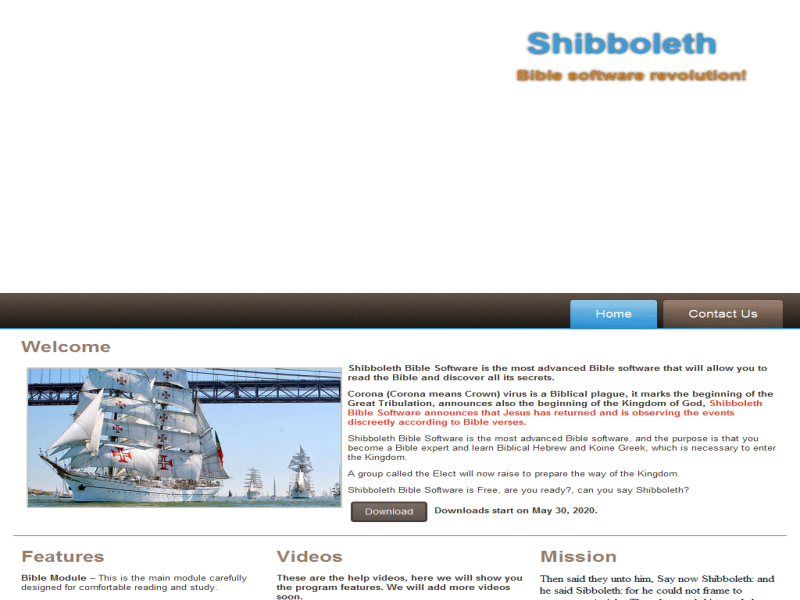
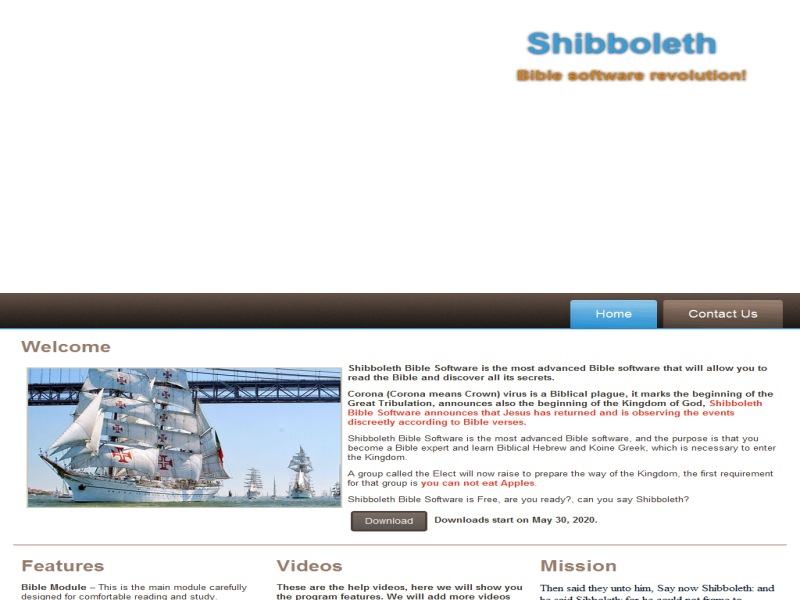
5

Changed region(s): [[0.0, 0.78, 0.9688, 1.0]]

diff --git a/index.html b/index.html
@@ -63,7 +63,7 @@
         </p><p>
         </p><p>
         </p><p><span style="font-weight: bold;">Shibboleth Bible Software is the most advanced Bible software that will allow you to read the Bible and discover all its secrets.</span></p><p><span style="font-weight: bold;">Corona (Corona means Crown) virus is a Biblical plague, it&nbsp;marks the beginning of the Great Tribulation, announces also the beginning of the Kingdom of God, <span style="color: rgb(226, 52, 29);">Shibboleth Bible Software announces that Jesus has returned and is observing the events discreetly according to Bible verses.</span></span></p>
-        <p>Shibboleth Bible Software is the most advanced Bible software, and the purpose is that you become a Bible expert and learn Biblical Hebrew and Koine Greek, which is necessary to enter the Kingdom.</p><p>A group called the Elect will now raise to prepare the way of the Kingdom.</p><p>Shibboleth Bible Software is Free, are you ready?, can you say Shibboleth?</p>
+        <p>Shibboleth Bible Software is the most advanced Bible software, and the purpose is that you become a Bible expert and learn Biblical Hebrew and Koine Greek, which is necessary to enter the Kingdom.</p><p>A group called the Elect will now raise to prepare the way of the Kingdom, the first requirement for that group is <span style="font-weight: bold; color: #E2341D;">you can not eat Apples</span><span style="color: #E2341D;">.</span></p><p>Shibboleth Bible Software is Free, are you ready?, can you say Shibboleth?</p>
         <p>&nbsp;<a href="#" class="art-button">Download</a>&nbsp;<span style="font-weight: bold;">Downloads start on May 30, 2020.</span><br></p>
     </div>
     </div>
@@ -127,14 +127,14 @@
          
          <!-- Default Statcounter code for shibboeth http://shibboleth-bible.com -->
          <script type="text/javascript">
-                                                                var sc_project=12241581; 
-                                                                var sc_invisible=1; 
-                                                                var sc_security="881c522a"; 
-                                                                var sc_https=1; 
-                                                                </script>
+                                                                        var sc_project=12241581; 
+                                                                        var sc_invisible=1; 
+                                                                        var sc_security="881c522a"; 
+                                                                        var sc_https=1; 
+                                                                        </script>
          <script type="text/javascript" async=""></script>
-         <noscript>&amp;amp;amp;amp;amp;amp;amp;amp;amp;amp;amp;amp;amp;amp;amp;amp;amp;amp;amp;amp;amp;lt;div class="statcounter"&amp;amp;amp;amp;amp;amp;amp;amp;amp;amp;amp;amp;amp;amp;amp;amp;amp;amp;amp;amp;amp;gt;&amp;amp;amp;amp;amp;amp;amp;amp;amp;amp;amp;amp;amp;amp;amp;amp;amp;amp;amp;amp;amp;lt;a title="web statistics" target="_blank"&amp;amp;amp;amp;amp;amp;amp;amp;amp;amp;amp;amp;amp;amp;amp;amp;amp;amp;amp;amp;amp;gt;&amp;amp;amp;amp;amp;amp;amp;amp;amp;amp;amp;amp;amp;amp;amp;amp;amp;amp;amp;amp;amp;lt;img class="statcounter" alt="web
-         statistics"&amp;amp;amp;amp;amp;amp;amp;amp;amp;amp;amp;amp;amp;amp;amp;amp;amp;amp;amp;amp;amp;gt;&amp;amp;amp;amp;amp;amp;amp;amp;amp;amp;amp;amp;amp;amp;amp;amp;amp;amp;amp;amp;amp;lt;/a&amp;amp;amp;amp;amp;amp;amp;amp;amp;amp;amp;amp;amp;amp;amp;amp;amp;amp;amp;amp;amp;gt;&amp;amp;amp;amp;amp;amp;amp;amp;amp;amp;amp;amp;amp;amp;amp;amp;amp;amp;amp;amp;amp;lt;/div&amp;amp;amp;amp;amp;amp;amp;amp;amp;amp;amp;amp;amp;amp;amp;amp;amp;amp;amp;amp;amp;gt;</noscript>
+         <noscript>&amp;amp;amp;amp;amp;amp;amp;amp;amp;amp;amp;amp;amp;amp;amp;amp;amp;amp;amp;amp;amp;amp;amp;amp;lt;div class="statcounter"&amp;amp;amp;amp;amp;amp;amp;amp;amp;amp;amp;amp;amp;amp;amp;amp;amp;amp;amp;amp;amp;amp;amp;amp;gt;&amp;amp;amp;amp;amp;amp;amp;amp;amp;amp;amp;amp;amp;amp;amp;amp;amp;amp;amp;amp;amp;amp;amp;amp;lt;a title="web statistics" target="_blank"&amp;amp;amp;amp;amp;amp;amp;amp;amp;amp;amp;amp;amp;amp;amp;amp;amp;amp;amp;amp;amp;amp;amp;amp;gt;&amp;amp;amp;amp;amp;amp;amp;amp;amp;amp;amp;amp;amp;amp;amp;amp;amp;amp;amp;amp;amp;amp;amp;amp;lt;img class="statcounter" alt="web
+         statistics"&amp;amp;amp;amp;amp;amp;amp;amp;amp;amp;amp;amp;amp;amp;amp;amp;amp;amp;amp;amp;amp;amp;amp;amp;gt;&amp;amp;amp;amp;amp;amp;amp;amp;amp;amp;amp;amp;amp;amp;amp;amp;amp;amp;amp;amp;amp;amp;amp;amp;lt;/a&amp;amp;amp;amp;amp;amp;amp;amp;amp;amp;amp;amp;amp;amp;amp;amp;amp;amp;amp;amp;amp;amp;amp;amp;gt;&amp;amp;amp;amp;amp;amp;amp;amp;amp;amp;amp;amp;amp;amp;amp;amp;amp;amp;amp;amp;amp;amp;amp;amp;lt;/div&amp;amp;amp;amp;amp;amp;amp;amp;amp;amp;amp;amp;amp;amp;amp;amp;amp;amp;amp;amp;amp;amp;amp;amp;gt;</noscript>
          <!-- End of Statcounter Code -->
     </div>
     </div>

diff --git a/new-page.html b/new-page.html
@@ -63,7 +63,7 @@
         </p><p>
         </p><p>
         </p><p><span style="font-weight: bold;">Shibboleth Bible Software is the most advanced Bible software that will allow you to read the Bible and discover all its secrets.</span></p><p><span style="font-weight: bold;">Corona (Corona means Crown) virus is a Biblical plague, it&nbsp;marks the beginning of the Great Tribulation, announces also the beginning of the Kingdom of God, <span style="color: rgb(226, 52, 29);">Shibboleth Bible Software announces that Jesus has returned and is observing the events discreetly according to Bible verses.</span></span></p>
-        <p>Shibboleth Bible Software is the most advanced Bible software, and the purpose is that you become a Bible expert and learn Biblical Hebrew and Koine Greek, which is necessary to enter the Kingdom.</p><p>A group called the Elect will now raise to prepare the way of the Kingdom.</p><p>Shibboleth Bible Software is Free, are you ready?, can you say Shibboleth?</p>
+        <p>Shibboleth Bible Software is the most advanced Bible software, and the purpose is that you become a Bible expert and learn Biblical Hebrew and Koine Greek, which is necessary to enter the Kingdom.</p><p>A group called the Elect will now raise to prepare the way of the Kingdom, the first requirement for that group is <span style="font-weight: bold; color: #E2341D;">you can not eat Apples</span><span style="color: #E2341D;">.</span></p><p>Shibboleth Bible Software is Free, are you ready?, can you say Shibboleth?</p>
         <p>&nbsp;<a href="#" class="art-button">Download</a>&nbsp;<span style="font-weight: bold;">Downloads start on May 30, 2020.</span><br></p>
     </div>
     </div>
@@ -127,14 +127,14 @@
          
          <!-- Default Statcounter code for shibboeth http://shibboleth-bible.com -->
          <script type="text/javascript">
-                                                                var sc_project=12241581; 
-                                                                var sc_invisible=1; 
-                                                                var sc_security="881c522a"; 
-                                                                var sc_https=1; 
-                                                                </script>
+                                                                        var sc_project=12241581; 
+                                                                        var sc_invisible=1; 
+                                                                        var sc_security="881c522a"; 
+                                                                        var sc_https=1; 
+                                                                        </script>
          <script type="text/javascript" async=""></script>
-         <noscript>&amp;amp;amp;amp;amp;amp;amp;amp;amp;amp;amp;amp;amp;amp;amp;amp;amp;amp;amp;amp;amp;lt;div class="statcounter"&amp;amp;amp;amp;amp;amp;amp;amp;amp;amp;amp;amp;amp;amp;amp;amp;amp;amp;amp;amp;amp;gt;&amp;amp;amp;amp;amp;amp;amp;amp;amp;amp;amp;amp;amp;amp;amp;amp;amp;amp;amp;amp;amp;lt;a title="web statistics" target="_blank"&amp;amp;amp;amp;amp;amp;amp;amp;amp;amp;amp;amp;amp;amp;amp;amp;amp;amp;amp;amp;amp;gt;&amp;amp;amp;amp;amp;amp;amp;amp;amp;amp;amp;amp;amp;amp;amp;amp;amp;amp;amp;amp;amp;lt;img class="statcounter" alt="web
-         statistics"&amp;amp;amp;amp;amp;amp;amp;amp;amp;amp;amp;amp;amp;amp;amp;amp;amp;amp;amp;amp;amp;gt;&amp;amp;amp;amp;amp;amp;amp;amp;amp;amp;amp;amp;amp;amp;amp;amp;amp;amp;amp;amp;amp;lt;/a&amp;amp;amp;amp;amp;amp;amp;amp;amp;amp;amp;amp;amp;amp;amp;amp;amp;amp;amp;amp;amp;gt;&amp;amp;amp;amp;amp;amp;amp;amp;amp;amp;amp;amp;amp;amp;amp;amp;amp;amp;amp;amp;amp;lt;/div&amp;amp;amp;amp;amp;amp;amp;amp;amp;amp;amp;amp;amp;amp;amp;amp;amp;amp;amp;amp;amp;gt;</noscript>
+         <noscript>&amp;amp;amp;amp;amp;amp;amp;amp;amp;amp;amp;amp;amp;amp;amp;amp;amp;amp;amp;amp;amp;amp;amp;amp;lt;div class="statcounter"&amp;amp;amp;amp;amp;amp;amp;amp;amp;amp;amp;amp;amp;amp;amp;amp;amp;amp;amp;amp;amp;amp;amp;amp;gt;&amp;amp;amp;amp;amp;amp;amp;amp;amp;amp;amp;amp;amp;amp;amp;amp;amp;amp;amp;amp;amp;amp;amp;amp;lt;a title="web statistics" target="_blank"&amp;amp;amp;amp;amp;amp;amp;amp;amp;amp;amp;amp;amp;amp;amp;amp;amp;amp;amp;amp;amp;amp;amp;amp;gt;&amp;amp;amp;amp;amp;amp;amp;amp;amp;amp;amp;amp;amp;amp;amp;amp;amp;amp;amp;amp;amp;amp;amp;amp;lt;img class="statcounter" alt="web
+         statistics"&amp;amp;amp;amp;amp;amp;amp;amp;amp;amp;amp;amp;amp;amp;amp;amp;amp;amp;amp;amp;amp;amp;amp;amp;gt;&amp;amp;amp;amp;amp;amp;amp;amp;amp;amp;amp;amp;amp;amp;amp;amp;amp;amp;amp;amp;amp;amp;amp;amp;lt;/a&amp;amp;amp;amp;amp;amp;amp;amp;amp;amp;amp;amp;amp;amp;amp;amp;amp;amp;amp;amp;amp;amp;amp;amp;gt;&amp;amp;amp;amp;amp;amp;amp;amp;amp;amp;amp;amp;amp;amp;amp;amp;amp;amp;amp;amp;amp;amp;amp;amp;lt;/div&amp;amp;amp;amp;amp;amp;amp;amp;amp;amp;amp;amp;amp;amp;amp;amp;amp;amp;amp;amp;amp;amp;amp;amp;gt;</noscript>
          <!-- End of Statcounter Code -->
     </div>
     </div>

diff --git a/new-page-2.html b/new-page-2.html
@@ -72,14 +72,14 @@
          
          <!-- Default Statcounter code for shibboeth http://shibboleth-bible.com -->
          <script type="text/javascript">
-                                                                var sc_project=12241581; 
-                                                                var sc_invisible=1; 
-                                                                var sc_security="881c522a"; 
-                                                                var sc_https=1; 
-                                                                </script>
+                                                                        var sc_project=12241581; 
+                                                                        var sc_invisible=1; 
+                                                                        var sc_security="881c522a"; 
+                                                                        var sc_https=1; 
+                                                                        </script>
          <script type="text/javascript" async=""></script>
-         <noscript>&amp;amp;amp;amp;amp;amp;amp;amp;amp;amp;amp;amp;amp;amp;amp;amp;amp;amp;amp;amp;amp;lt;div class="statcounter"&amp;amp;amp;amp;amp;amp;amp;amp;amp;amp;amp;amp;amp;amp;amp;amp;amp;amp;amp;amp;amp;gt;&amp;amp;amp;amp;amp;amp;amp;amp;amp;amp;amp;amp;amp;amp;amp;amp;amp;amp;amp;amp;amp;lt;a title="web statistics" target="_blank"&amp;amp;amp;amp;amp;amp;amp;amp;amp;amp;amp;amp;amp;amp;amp;amp;amp;amp;amp;amp;amp;gt;&amp;amp;amp;amp;amp;amp;amp;amp;amp;amp;amp;amp;amp;amp;amp;amp;amp;amp;amp;amp;amp;lt;img class="statcounter" alt="web
-         statistics"&amp;amp;amp;amp;amp;amp;amp;amp;amp;amp;amp;amp;amp;amp;amp;amp;amp;amp;amp;amp;amp;gt;&amp;amp;amp;amp;amp;amp;amp;amp;amp;amp;amp;amp;amp;amp;amp;amp;amp;amp;amp;amp;amp;lt;/a&amp;amp;amp;amp;amp;amp;amp;amp;amp;amp;amp;amp;amp;amp;amp;amp;amp;amp;amp;amp;amp;gt;&amp;amp;amp;amp;amp;amp;amp;amp;amp;amp;amp;amp;amp;amp;amp;amp;amp;amp;amp;amp;amp;lt;/div&amp;amp;amp;amp;amp;amp;amp;amp;amp;amp;amp;amp;amp;amp;amp;amp;amp;amp;amp;amp;amp;gt;</noscript>
+         <noscript>&amp;amp;amp;amp;amp;amp;amp;amp;amp;amp;amp;amp;amp;amp;amp;amp;amp;amp;amp;amp;amp;amp;amp;amp;lt;div class="statcounter"&amp;amp;amp;amp;amp;amp;amp;amp;amp;amp;amp;amp;amp;amp;amp;amp;amp;amp;amp;amp;amp;amp;amp;amp;gt;&amp;amp;amp;amp;amp;amp;amp;amp;amp;amp;amp;amp;amp;amp;amp;amp;amp;amp;amp;amp;amp;amp;amp;amp;lt;a title="web statistics" target="_blank"&amp;amp;amp;amp;amp;amp;amp;amp;amp;amp;amp;amp;amp;amp;amp;amp;amp;amp;amp;amp;amp;amp;amp;amp;gt;&amp;amp;amp;amp;amp;amp;amp;amp;amp;amp;amp;amp;amp;amp;amp;amp;amp;amp;amp;amp;amp;amp;amp;amp;lt;img class="statcounter" alt="web
+         statistics"&amp;amp;amp;amp;amp;amp;amp;amp;amp;amp;amp;amp;amp;amp;amp;amp;amp;amp;amp;amp;amp;amp;amp;amp;gt;&amp;amp;amp;amp;amp;amp;amp;amp;amp;amp;amp;amp;amp;amp;amp;amp;amp;amp;amp;amp;amp;amp;amp;amp;lt;/a&amp;amp;amp;amp;amp;amp;amp;amp;amp;amp;amp;amp;amp;amp;amp;amp;amp;amp;amp;amp;amp;amp;amp;amp;gt;&amp;amp;amp;amp;amp;amp;amp;amp;amp;amp;amp;amp;amp;amp;amp;amp;amp;amp;amp;amp;amp;amp;amp;amp;lt;/div&amp;amp;amp;amp;amp;amp;amp;amp;amp;amp;amp;amp;amp;amp;amp;amp;amp;amp;amp;amp;amp;amp;amp;amp;gt;</noscript>
          <!-- End of Statcounter Code -->
     </div>
     </div>

diff --git a/new-page/new-page-2.html b/new-page/new-page-2.html
@@ -68,14 +68,14 @@
          
          <!-- Default Statcounter code for shibboeth http://shibboleth-bible.com -->
          <script type="text/javascript">
-                                                                var sc_project=12241581; 
-                                                                var sc_invisible=1; 
-                                                                var sc_security="881c522a"; 
-                                                                var sc_https=1; 
-                                                                </script>
+                                                                        var sc_project=12241581; 
+                                                                        var sc_invisible=1; 
+                                                                        var sc_security="881c522a"; 
+                                                                        var sc_https=1; 
+                                                                        </script>
          <script type="text/javascript" async=""></script>
-         <noscript>&amp;amp;amp;amp;amp;amp;amp;amp;amp;amp;amp;amp;amp;amp;amp;amp;amp;amp;amp;amp;amp;lt;div class="statcounter"&amp;amp;amp;amp;amp;amp;amp;amp;amp;amp;amp;amp;amp;amp;amp;amp;amp;amp;amp;amp;amp;gt;&amp;amp;amp;amp;amp;amp;amp;amp;amp;amp;amp;amp;amp;amp;amp;amp;amp;amp;amp;amp;amp;lt;a title="web statistics" target="_blank"&amp;amp;amp;amp;amp;amp;amp;amp;amp;amp;amp;amp;amp;amp;amp;amp;amp;amp;amp;amp;amp;gt;&amp;amp;amp;amp;amp;amp;amp;amp;amp;amp;amp;amp;amp;amp;amp;amp;amp;amp;amp;amp;amp;lt;img class="statcounter" alt="web
-         statistics"&amp;amp;amp;amp;amp;amp;amp;amp;amp;amp;amp;amp;amp;amp;amp;amp;amp;amp;amp;amp;amp;gt;&amp;amp;amp;amp;amp;amp;amp;amp;amp;amp;amp;amp;amp;amp;amp;amp;amp;amp;amp;amp;amp;lt;/a&amp;amp;amp;amp;amp;amp;amp;amp;amp;amp;amp;amp;amp;amp;amp;amp;amp;amp;amp;amp;amp;gt;&amp;amp;amp;amp;amp;amp;amp;amp;amp;amp;amp;amp;amp;amp;amp;amp;amp;amp;amp;amp;amp;lt;/div&amp;amp;amp;amp;amp;amp;amp;amp;amp;amp;amp;amp;amp;amp;amp;amp;amp;amp;amp;amp;amp;gt;</noscript>
+         <noscript>&amp;amp;amp;amp;amp;amp;amp;amp;amp;amp;amp;amp;amp;amp;amp;amp;amp;amp;amp;amp;amp;amp;amp;amp;lt;div class="statcounter"&amp;amp;amp;amp;amp;amp;amp;amp;amp;amp;amp;amp;amp;amp;amp;amp;amp;amp;amp;amp;amp;amp;amp;amp;gt;&amp;amp;amp;amp;amp;amp;amp;amp;amp;amp;amp;amp;amp;amp;amp;amp;amp;amp;amp;amp;amp;amp;amp;amp;lt;a title="web statistics" target="_blank"&amp;amp;amp;amp;amp;amp;amp;amp;amp;amp;amp;amp;amp;amp;amp;amp;amp;amp;amp;amp;amp;amp;amp;amp;gt;&amp;amp;amp;amp;amp;amp;amp;amp;amp;amp;amp;amp;amp;amp;amp;amp;amp;amp;amp;amp;amp;amp;amp;amp;lt;img class="statcounter" alt="web
+         statistics"&amp;amp;amp;amp;amp;amp;amp;amp;amp;amp;amp;amp;amp;amp;amp;amp;amp;amp;amp;amp;amp;amp;amp;amp;gt;&amp;amp;amp;amp;amp;amp;amp;amp;amp;amp;amp;amp;amp;amp;amp;amp;amp;amp;amp;amp;amp;amp;amp;amp;lt;/a&amp;amp;amp;amp;amp;amp;amp;amp;amp;amp;amp;amp;amp;amp;amp;amp;amp;amp;amp;amp;amp;amp;amp;amp;gt;&amp;amp;amp;amp;amp;amp;amp;amp;amp;amp;amp;amp;amp;amp;amp;amp;amp;amp;amp;amp;amp;amp;amp;amp;lt;/div&amp;amp;amp;amp;amp;amp;amp;amp;amp;amp;amp;amp;amp;amp;amp;amp;amp;amp;amp;amp;amp;amp;amp;amp;gt;</noscript>
          <!-- End of Statcounter Code -->
     </div>
     </div>

diff --git a/new-page/new-page-3.html b/new-page/new-page-3.html
@@ -68,14 +68,14 @@
          
          <!-- Default Statcounter code for shibboeth http://shibboleth-bible.com -->
          <script type="text/javascript">
-                                                                var sc_project=12241581; 
-                                                                var sc_invisible=1; 
-                                                                var sc_security="881c522a"; 
-                                                                var sc_https=1; 
-                                                                </script>
+                                                                        var sc_project=12241581; 
+                                                                        var sc_invisible=1; 
+                                                                        var sc_security="881c522a"; 
+                                                                        var sc_https=1; 
+                                                                        </script>
          <script type="text/javascript" async=""></script>
-         <noscript>&amp;amp;amp;amp;amp;amp;amp;amp;amp;amp;amp;amp;amp;amp;amp;amp;amp;amp;amp;amp;amp;lt;div class="statcounter"&amp;amp;amp;amp;amp;amp;amp;amp;amp;amp;amp;amp;amp;amp;amp;amp;amp;amp;amp;amp;amp;gt;&amp;amp;amp;amp;amp;amp;amp;amp;amp;amp;amp;amp;amp;amp;amp;amp;amp;amp;amp;amp;amp;lt;a title="web statistics" target="_blank"&amp;amp;amp;amp;amp;amp;amp;amp;amp;amp;amp;amp;amp;amp;amp;amp;amp;amp;amp;amp;amp;gt;&amp;amp;amp;amp;amp;amp;amp;amp;amp;amp;amp;amp;amp;amp;amp;amp;amp;amp;amp;amp;amp;lt;img class="statcounter" alt="web
-         statistics"&amp;amp;amp;amp;amp;amp;amp;amp;amp;amp;amp;amp;amp;amp;amp;amp;amp;amp;amp;amp;amp;gt;&amp;amp;amp;amp;amp;amp;amp;amp;amp;amp;amp;amp;amp;amp;amp;amp;amp;amp;amp;amp;amp;lt;/a&amp;amp;amp;amp;amp;amp;amp;amp;amp;amp;amp;amp;amp;amp;amp;amp;amp;amp;amp;amp;amp;gt;&amp;amp;amp;amp;amp;amp;amp;amp;amp;amp;amp;amp;amp;amp;amp;amp;amp;amp;amp;amp;amp;lt;/div&amp;amp;amp;amp;amp;amp;amp;amp;amp;amp;amp;amp;amp;amp;amp;amp;amp;amp;amp;amp;amp;gt;</noscript>
+         <noscript>&amp;amp;amp;amp;amp;amp;amp;amp;amp;amp;amp;amp;amp;amp;amp;amp;amp;amp;amp;amp;amp;amp;amp;amp;lt;div class="statcounter"&amp;amp;amp;amp;amp;amp;amp;amp;amp;amp;amp;amp;amp;amp;amp;amp;amp;amp;amp;amp;amp;amp;amp;amp;gt;&amp;amp;amp;amp;amp;amp;amp;amp;amp;amp;amp;amp;amp;amp;amp;amp;amp;amp;amp;amp;amp;amp;amp;amp;lt;a title="web statistics" target="_blank"&amp;amp;amp;amp;amp;amp;amp;amp;amp;amp;amp;amp;amp;amp;amp;amp;amp;amp;amp;amp;amp;amp;amp;amp;gt;&amp;amp;amp;amp;amp;amp;amp;amp;amp;amp;amp;amp;amp;amp;amp;amp;amp;amp;amp;amp;amp;amp;amp;amp;lt;img class="statcounter" alt="web
+         statistics"&amp;amp;amp;amp;amp;amp;amp;amp;amp;amp;amp;amp;amp;amp;amp;amp;amp;amp;amp;amp;amp;amp;amp;amp;gt;&amp;amp;amp;amp;amp;amp;amp;amp;amp;amp;amp;amp;amp;amp;amp;amp;amp;amp;amp;amp;amp;amp;amp;amp;lt;/a&amp;amp;amp;amp;amp;amp;amp;amp;amp;amp;amp;amp;amp;amp;amp;amp;amp;amp;amp;amp;amp;amp;amp;amp;gt;&amp;amp;amp;amp;amp;amp;amp;amp;amp;amp;amp;amp;amp;amp;amp;amp;amp;amp;amp;amp;amp;amp;amp;amp;lt;/div&amp;amp;amp;amp;amp;amp;amp;amp;amp;amp;amp;amp;amp;amp;amp;amp;amp;amp;amp;amp;amp;amp;amp;amp;gt;</noscript>
          <!-- End of Statcounter Code -->
     </div>
     </div>

diff --git a/new-page/new-page.html b/new-page/new-page.html
@@ -68,14 +68,14 @@
          
          <!-- Default Statcounter code for shibboeth http://shibboleth-bible.com -->
          <script type="text/javascript">
-                                                                var sc_project=12241581; 
-                                                                var sc_invisible=1; 
-                                                                var sc_security="881c522a"; 
-                                                                var sc_https=1; 
-                                                                </script>
+                                                                        var sc_project=12241581; 
+                                                                        var sc_invisible=1; 
+                                                                        var sc_security="881c522a"; 
+                                                                        var sc_https=1; 
+                                                                        </script>
          <script type="text/javascript" async=""></script>
-         <noscript>&amp;amp;amp;amp;amp;amp;amp;amp;amp;amp;amp;amp;amp;amp;amp;amp;amp;amp;amp;amp;amp;lt;div class="statcounter"&amp;amp;amp;amp;amp;amp;amp;amp;amp;amp;amp;amp;amp;amp;amp;amp;amp;amp;amp;amp;amp;gt;&amp;amp;amp;amp;amp;amp;amp;amp;amp;amp;amp;amp;amp;amp;amp;amp;amp;amp;amp;amp;amp;lt;a title="web statistics" target="_blank"&amp;amp;amp;amp;amp;amp;amp;amp;amp;amp;amp;amp;amp;amp;amp;amp;amp;amp;amp;amp;amp;gt;&amp;amp;amp;amp;amp;amp;amp;amp;amp;amp;amp;amp;amp;amp;amp;amp;amp;amp;amp;amp;amp;lt;img class="statcounter" alt="web
-         statistics"&amp;amp;amp;amp;amp;amp;amp;amp;amp;amp;amp;amp;amp;amp;amp;amp;amp;amp;amp;amp;amp;gt;&amp;amp;amp;amp;amp;amp;amp;amp;amp;amp;amp;amp;amp;amp;amp;amp;amp;amp;amp;amp;amp;lt;/a&amp;amp;amp;amp;amp;amp;amp;amp;amp;amp;amp;amp;amp;amp;amp;amp;amp;amp;amp;amp;amp;gt;&amp;amp;amp;amp;amp;amp;amp;amp;amp;amp;amp;amp;amp;amp;amp;amp;amp;amp;amp;amp;amp;lt;/div&amp;amp;amp;amp;amp;amp;amp;amp;amp;amp;amp;amp;amp;amp;amp;amp;amp;amp;amp;amp;amp;gt;</noscript>
+         <noscript>&amp;amp;amp;amp;amp;amp;amp;amp;amp;amp;amp;amp;amp;amp;amp;amp;amp;amp;amp;amp;amp;amp;amp;amp;lt;div class="statcounter"&amp;amp;amp;amp;amp;amp;amp;amp;amp;amp;amp;amp;amp;amp;amp;amp;amp;amp;amp;amp;amp;amp;amp;amp;gt;&amp;amp;amp;amp;amp;amp;amp;amp;amp;amp;amp;amp;amp;amp;amp;amp;amp;amp;amp;amp;amp;amp;amp;amp;lt;a title="web statistics" target="_blank"&amp;amp;amp;amp;amp;amp;amp;amp;amp;amp;amp;amp;amp;amp;amp;amp;amp;amp;amp;amp;amp;amp;amp;amp;gt;&amp;amp;amp;amp;amp;amp;amp;amp;amp;amp;amp;amp;amp;amp;amp;amp;amp;amp;amp;amp;amp;amp;amp;amp;lt;img class="statcounter" alt="web
+         statistics"&amp;amp;amp;amp;amp;amp;amp;amp;amp;amp;amp;amp;amp;amp;amp;amp;amp;amp;amp;amp;amp;amp;amp;amp;gt;&amp;amp;amp;amp;amp;amp;amp;amp;amp;amp;amp;amp;amp;amp;amp;amp;amp;amp;amp;amp;amp;amp;amp;amp;lt;/a&amp;amp;amp;amp;amp;amp;amp;amp;amp;amp;amp;amp;amp;amp;amp;amp;amp;amp;amp;amp;amp;amp;amp;amp;gt;&amp;amp;amp;amp;amp;amp;amp;amp;amp;amp;amp;amp;amp;amp;amp;amp;amp;amp;amp;amp;amp;amp;amp;amp;lt;/div&amp;amp;amp;amp;amp;amp;amp;amp;amp;amp;amp;amp;amp;amp;amp;amp;amp;amp;amp;amp;amp;amp;amp;amp;gt;</noscript>
          <!-- End of Statcounter Code -->
     </div>
     </div>
